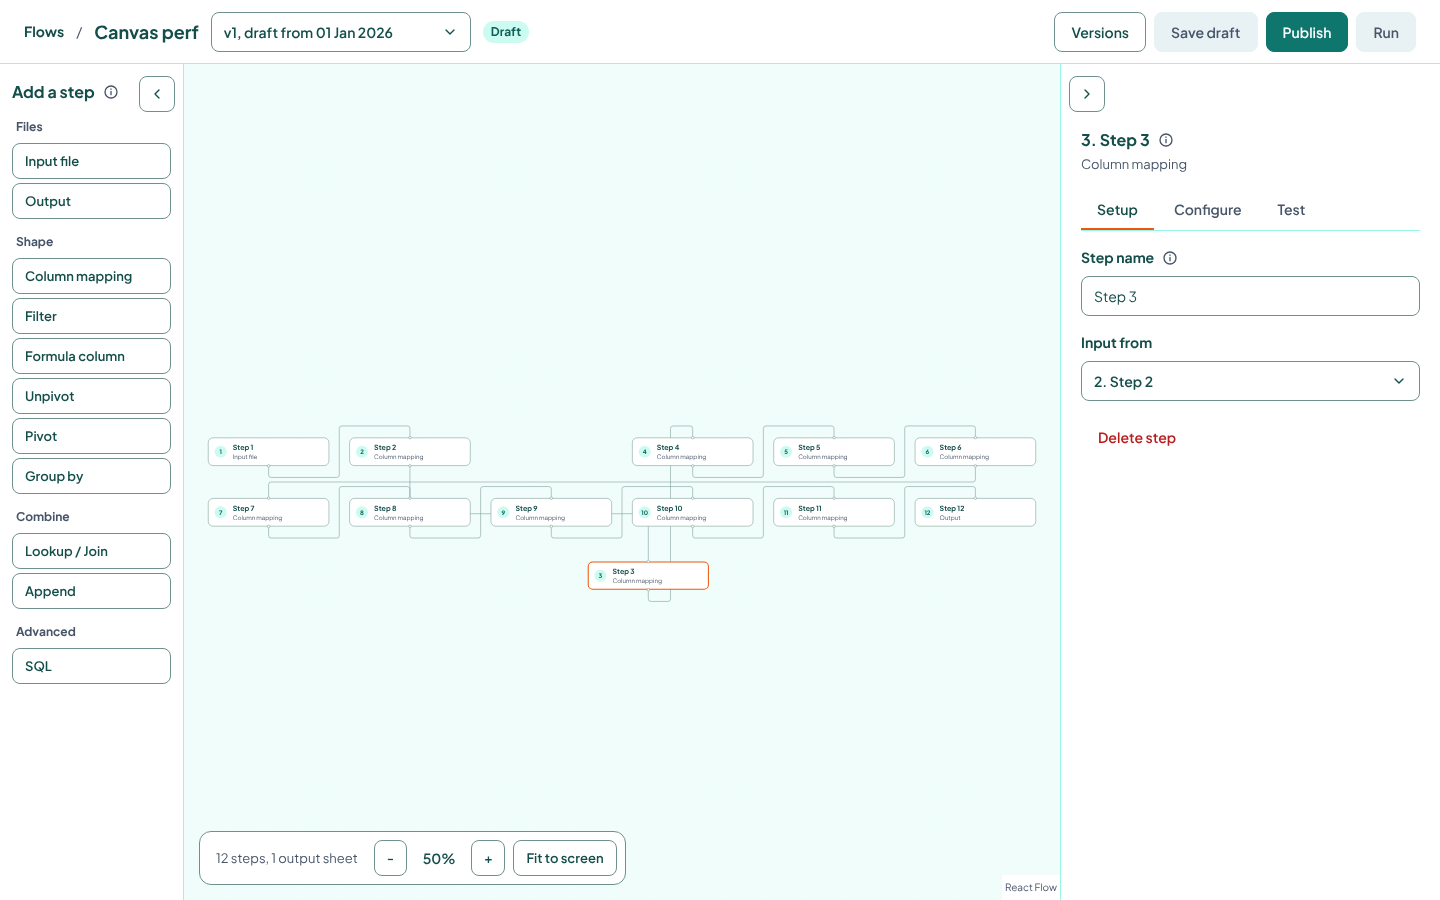
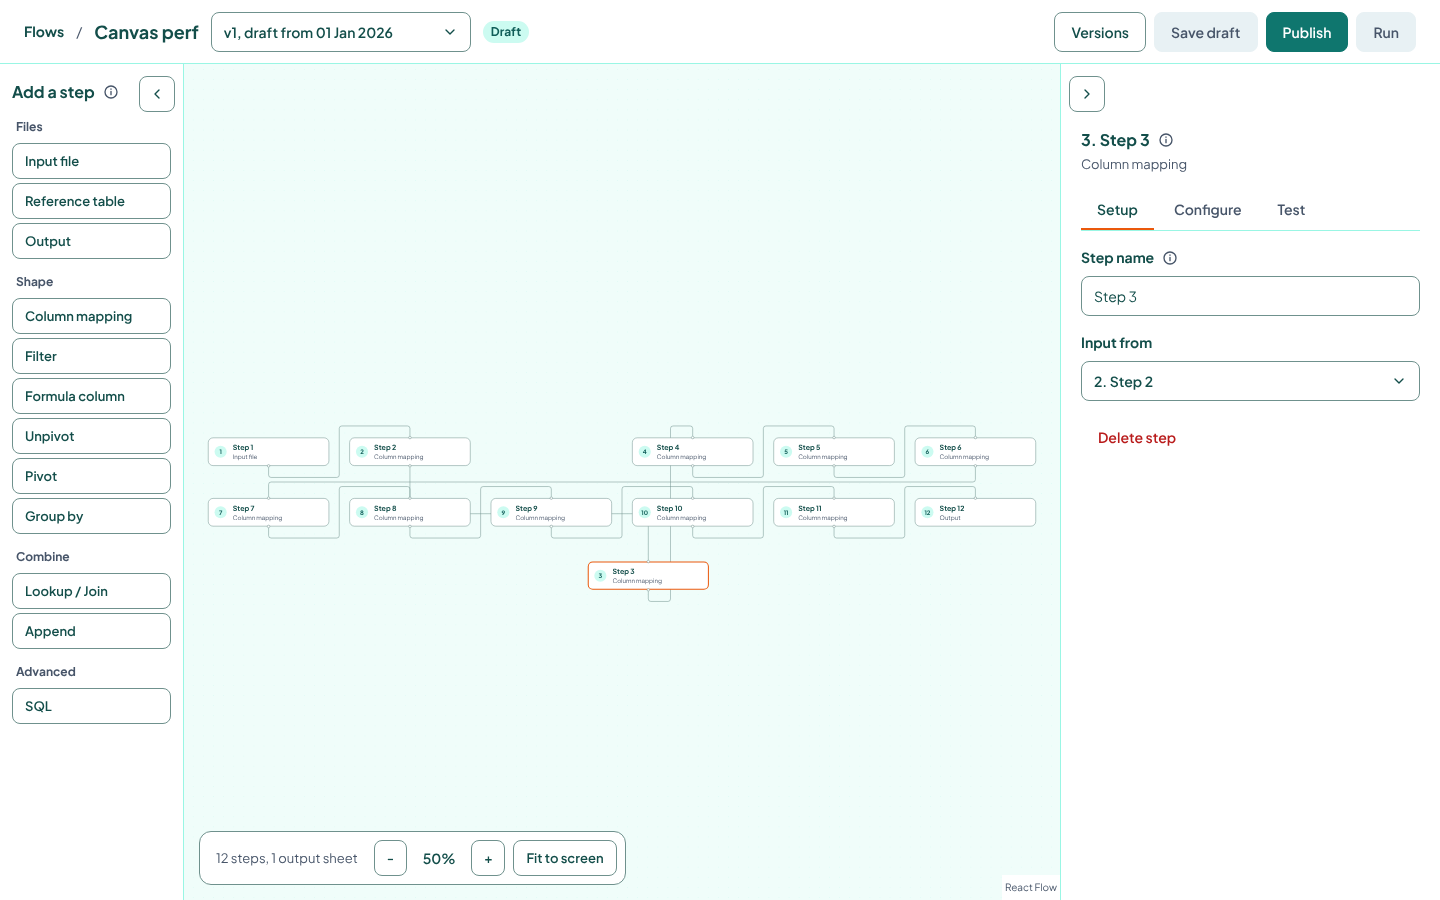
T6.20 Sweep: audit fixes for the new screens, D92, canvas measurements refreshed
Claude-Session: https://claude.ai/code/session_01Q85bFdSsbH4Xtqx7Ypf4Yh

diff --git a/src/ui/builder/analyze/analysis-panel.tsx b/src/ui/builder/analyze/analysis-panel.tsx
@@ -30,6 +30,14 @@ function cellText(v: unknown): string {
   return v instanceof Date ? v.toISOString().slice(0, 10) : String(v);
 }
 
+/** A column of numbers is right-aligned: every filled cell of the rows that are read is a number (or a text of digits). */
+function numericColumn(grid: Grid, result: FileAnalysis, c: number): boolean {
+  const region = result.analysis.region;
+  if (!region) return false;
+  const cells = grid.rows.slice(region.headerRow, Math.min(PREVIEW_ROWS, region.lastRow)).map((r) => r[c]).filter((v) => v !== null && v !== undefined && !(typeof v === 'string' && v.trim() === ''));
+  return cells.length > 0 && cells.every((v) => typeof v === 'number' || (typeof v === 'string' && /^-?[\d.,]+$/.test(v.trim())));
+}
+
 function previewRows(grid: Grid, result: FileAnalysis): PreviewRow[] {
   const region = result.analysis.region;
   return grid.rows.slice(0, PREVIEW_ROWS).map((row, i) => ({
@@ -103,6 +111,7 @@ export function AnalysisPanel({ file, settings, onApply }: AnalysisPanelProps) {
     setState({ status: 'idle' });
   };
 
+  const grid = state.status === 'done' ? state.result.grid : undefined;
   const columns: Column<PreviewRow>[] = [
     { key: 'n', header: t('builder.analyze.rowColumn'), align: 'right', userContent: false, render: (r) => (
       <span className={r.read ? undefined : styles.dim}>
@@ -114,35 +123,34 @@ export function AnalysisPanel({ file, settings, onApply }: AnalysisPanelProps) {
       key: `c${c}`,
       header: columnLetters(c + 1),
       userContent: true,
+      align: state.status === 'done' && grid && numericColumn(grid, state.result, c) ? ('right' as const) : ('left' as const),
       render: (r) => <span className={`${r.read ? '' : styles.dim} ${r.header ? styles.header : ''}`}>{r.cells[c]}</span>,
     })),
   ];
 
   return (
     <div className={styles.panel}>
-      <div className={styles.bar}>
-        <Button compact data-analyze="run" disabled={!file || state.status === 'reading'} onClick={() => void run()}>
+      <div className={styles.panel}>
+        <span className={styles.titleRow}>
+          <span className={styles.sectionTitle}>{t('builder.analyze.title')}</span>
+          <InfoTip label={t('builder.analyze.title')}>{t('builder.analyze.note')}</InfoTip>
+        </span>
+        <Button block data-analyze="run" disabled={!file || state.status === 'reading'} onClick={() => void run()}>
           {t('builder.analyze.button')}
         </Button>
-        <InfoTip label={t('builder.analyze.button')}>{t('builder.analyze.note')}</InfoTip>
       </div>
       {!file ? <p className={styles.note}>{t('builder.analyze.noFile')}</p> : null}
       {state.status === 'reading' ? (
         <div className={styles.panel}>
           <ProgressBar value={state.done} max={state.total} label={t('builder.analyze.reading')} />
-          <div className={styles.bar}>
-            <span className={styles.note} role="status">{t('builder.analyze.reading')}</span>
-            <Button compact onClick={cancel}>{t('builder.analyze.cancel')}</Button>
-          </div>
+          <span className={styles.note} role="status">{t('builder.analyze.reading')}</span>
+          <Button block onClick={cancel}>{t('builder.analyze.cancel')}</Button>
         </div>
       ) : null}
-      {state.status === 'failed' ? <ErrorState what={t('builder.analyze.failed')} next={state.message} actions={<Button compact onClick={() => setState({ status: 'idle' })}>{t('builder.analyze.close')}</Button>} /> : null}
+      {state.status === 'failed' ? <ErrorState what={t('builder.analyze.failed')} next={state.message} /> : null}
       {state.status === 'done' && !state.result.analysis.found ? (
         <div className={styles.result}>
           <p className={styles.note} role="status">{t('builder.analyze.noTable')}</p>
-          <div className={styles.actions}>
-            <Button compact onClick={() => setState({ status: 'idle' })}>{t('builder.analyze.close')}</Button>
-          </div>
         </div>
       ) : null}
       {state.status === 'done' && state.result.analysis.found ? (

diff --git a/e2e/analyze-file.spec.ts b/e2e/analyze-file.spec.ts
@@ -124,7 +124,8 @@ test('a file with no table says so and offers nothing to apply', async ({ page }
   await analyze(page).click();
   await expect(settings(page).getByText('No table found. Set the header row by hand.')).toBeVisible();
   await expect(settings(page).getByRole('button', { name: 'Apply to the step' })).toHaveCount(0);
-  await settings(page).getByRole('button', { name: 'Close' }).click();
+  // A new test file starts clean: the message of the old one is gone.
+  await settings(page).locator('input[type=file]').setInputFiles(upload(layout('title-and-footer (xlsx)')));
   await expect(settings(page).getByText('No table found.')).toHaveCount(0);
 });
 
@@ -142,7 +143,8 @@ test('a file that cannot be read says what failed and what to do', async ({ page
   const alert = settings(page).getByRole('alert');
   await expect(alert).toContainText('The file could not be analyzed.');
   await expect(alert).toContainText('.xlsx or .csv');
-  await alert.getByRole('button', { name: 'Close' }).click();
+  // Another test file clears it.
+  await settings(page).locator('input[type=file]').setInputFiles(upload(layout('title-and-footer (xlsx)')));
   await expect(settings(page).getByRole('alert')).toHaveCount(0);
 });
 

diff --git a/src/ui/builder/step-preview.tsx b/src/ui/builder/step-preview.tsx
@@ -131,7 +131,7 @@ export function StepPreview({ definition, step, files, onFile, refTables, parame
         </div>
       ) : null}
       {step.type === 'input_file' && onApplySettings ? (
-        <AnalysisPanel file={typeof step.settings.key === 'string' ? files[step.settings.key] : undefined} settings={step.settings} onApply={onApplySettings} />
+        <AnalysisPanel key={(() => { const f = typeof step.settings.key === 'string' ? files[step.settings.key] : undefined; return f ? `${f.name}:${f.size}:${f.lastModified}` : 'none'; })()} file={typeof step.settings.key === 'string' ? files[step.settings.key] : undefined} settings={step.settings} onApply={onApplySettings} />
       ) : null}
       {needed.length > 0 ? (
         <div className={styles.block}>

diff --git a/src/ui/builder/parameter-control/parameter-control.tsx b/src/ui/builder/parameter-control/parameter-control.tsx
@@ -72,11 +72,11 @@ export function ParameterControl({ field, setting, parameters, value, readOnly, 
         <span className={`${styles.chip} ${gone ? styles.chipError : ''}`}>
           <Icon name="link" />
           {gone ? (
-            <span data-user-content>{t('builder.param.gone', { key: view.key })}</span>
+            <span data-user-content title={t('builder.param.gone', { key: view.key })}>{t('builder.param.gone', { key: view.key })}</span>
           ) : (
             <>
               <span>{t('builder.param.chip')}</span>
-              <span data-user-content>{view.label}</span>
+              <span data-user-content title={view.label}>{view.label}</span>
             </>
           )}
         </span>

diff --git a/src/ui/i18n/messages/vi.ts b/src/ui/i18n/messages/vi.ts
@@ -228,6 +228,7 @@ export const vi: Record<MessageKey, string> = {
   'builder.analyze.match.starts_with': 'bắt đầu bằng',
   'builder.analyze.match.equals': 'đúng bằng',
   'builder.analyze.button': 'Phân tích tệp',
+  'builder.analyze.title': 'Phân tích một tệp mẫu',
   'builder.analyze.noFile': 'Hãy chọn một tệp thử trước.',
   'builder.analyze.reading': 'Đang đọc tệp',
   'builder.analyze.cancel': 'Hủy',

diff --git a/src/ui/i18n/messages/en.ts b/src/ui/i18n/messages/en.ts
@@ -235,6 +235,7 @@ export const en = {
   'builder.analyze.match.starts_with': 'starts with',
   'builder.analyze.match.equals': 'is',
   'builder.analyze.button': 'Analyze file',
+  'builder.analyze.title': 'Analyze a sample file',
   'builder.analyze.noFile': 'Choose a test file first.',
   'builder.analyze.reading': 'Reading the file',
   'builder.analyze.cancel': 'Cancel',

diff --git a/src/ui/builder/analyze/analysis-panel.module.css b/src/ui/builder/analyze/analysis-panel.module.css
@@ -118,3 +118,9 @@
   display: flex;
   gap: 8px;
 }
+
+.titleRow {
+  display: inline-flex;
+  align-items: center;
+  gap: 8px;
+}

diff --git a/PROGRESS.md b/PROGRESS.md
@@ -239,7 +239,7 @@ Input files that hold a table inside a larger sheet (SPEC 13.2)
 - [x] T6.19 The run says what is wrong: a file that lacks a required column, a stop marker that is never found (the region reaches the end of the sheet, said as a warning on the Run screen and the Test tab: "The stop text was not found; all rows to the end were read"), a header row past the end. Each message says what failed and what to do (SPEC 11.3, `en` and `vi`). e2e for each on the Run screen and in the Test tab.
 
 Quality pass
-- [ ] T6.20 Unit and integration sweep: `npm run check`, `test:db`, `test:functions`, `test:store` and `test:acceptance` pass on the whole Phase 6 code, the acceptance flow is unchanged, `docs/CANVAS_PERF.md` is current, and `ui-audit/audit.spec.ts` finds no row of controls with different heights and no column with different widths on the new screens. Fix what it finds.
+- [x] T6.20 Unit and integration sweep: `npm run check`, `test:db`, `test:functions`, `test:store` and `test:acceptance` pass on the whole Phase 6 code, the acceptance flow is unchanged, `docs/CANVAS_PERF.md` is current, and `ui-audit/audit.spec.ts` finds no row of controls with different heights and no column with different widths on the new screens. Fix what it finds.
 - [ ] T6.21 `docs/DEPLOY.md`: a section "Upgrade from Phase 5" (back up; `npx supabase db push` for migration 18 named in the file; no new function; a check list: a flow with a Reference table step is readable by a user who runs it, the date check warning, the analysis of a sample file, a drag on the canvas), under Limits that a sample file is never stored and that the analysis is a proposal; `scripts/deploy-doc.test.ts` updated; `README.md` lists the new features.
 - [ ] T6.22 UI review of the new and changed screens in both themes: the builder while a card is dragged (screenshots at the start, middle and end), the Input step (Configure with the region settings, Test with the analysis in each state), a field that uses a parameter in each form, the Reference table step in each state, the publish dialog with the date check, the Run screen with its group and errors; against the DESIGN checklist; `docs/UI_AUDIT_P6.md` with numbered findings (screen, item, severity, fix); fix every finding that is a few lines in this task, add one task for each other finding below (T6.22a, T6.22b, ...), at most 6, and list the rest as later. Run the full `npm run test:ui-rules`.
 - [ ] T6.23 Final run: `npm ci`, then `npm run gates` (seven gates) and `npm run test:acceptance:pages`; set `STATUS: COMPLETE` only if both pass. Consult the advisor before the last tick.
@@ -290,6 +290,12 @@ None. The Pages file size blocker of T3.9 is solved by D71.
 ## Log
 
 Newest first.
+
+### 2026-11-20 T6.20 Unit and integration sweep (turn 28)
+Ran on the whole Phase 6 code: `npm run check` PASS (106 files, 1444 tests, exit 0); `npm run test:db` PASS (exit 0, migrations 1 to 18 applied from zero on a local Supabase, 18 files, 511 tests); `npm run test:functions` PASS (exit 0, 14 tests); `npm run test:store` PASS (exit 0, 35 tests); `npm run test:acceptance` PASS (exit 0, 22 passed: both datasets with the same flow file, harness, privacy and the 14 layout tests); `git diff main -- flows/monthly-timesheet.flow.json` is empty; `git status --porcelain testcase` is empty. `docs/CANVAS_PERF.md` regenerated by `npm run perf:canvas` (exit 0): p95 frame 17 ms for 12, 70 and 60 steps, 2 renders of BuilderScreen, SettingsPanel and StepList per drag, every card visible.
+`ui-audit` (the build of the UI rules, both themes, 90 routes each, 180 passed): no row of controls with different heights on any new screen. Fixed what it found on them: numbers of the "Analyze file" preview were not right-aligned, three chip labels of the parameter control truncated without a `title`, and the `Analyze file` and `Cancel` buttons were narrower than the fields above them (the error and "No table found" states lose their `Close`, and a new test file clears them). What it still lists on the new screens is the pattern of D83 and D86 and is written down in D92. The two audited bundles were built from the code at that point; after the last fix the UI rules were run for the analyze file and parameter control routes (330 passed, exit 0, three projects).
+Gates run: all of the above, read before this commit. The full `npm run test:e2e`, the full `npm run test:ui-rules`, `npm run test:acceptance:pages` and a full `npm run gates` after `npm ci` were not run this turn: T6.22 and T6.23 do that.
+Next: T6.21.
 
 ### 2026-11-20 T6.19 The run says what is wrong or doubtful with an Input file (turn 27)
 Changed: src/engine/types.ts (`EngineWarning` and `warning()`), src/engine/input/load.ts (a header row past the end of the sheet is the coded error `engine.inputNoHeader`, with the row, the file and the step, for xlsx and csv; a stop text that is never found adds the warning `engine.inputStopNotFound` to `LoadStats.warnings` in both readers and the load still reads to the end; the missing-column error is from T6.16a), src/engine/run.ts (`RunResult.warnings`), src/ui/i18n/error-text.ts (`warningText`), `PreviewData.warnings` and `RunOutcome.warnings` (in the language of the screen), a quiet warning above the rows in the Test tab and above the downloads in the result of the Run screen, two catalog texts in `en` and `vi`. Tests: unit tests in layouts.test.ts (header row 500 for xlsx and csv; a stop text that is never found warns for xlsx and csv and reads more rows; no warning when the marker is found, for the other ways to stop and without a stop rule), e2e/input-problems.spec.ts (8 tests: a missing required column on the Run screen and in the Test tab, and in Vietnamese; a stop text never found on the Run screen and in the Test tab, and none when it is found; a header row past the end on the Run screen and in the Test tab), two UI-rules routes (the warning in the Test tab and in the Run result).

diff --git a/docs/DECISIONS.md b/docs/DECISIONS.md
@@ -971,3 +971,19 @@ DuckDB `read_csv` stays the csv reader (D10), with three changes for files that 
 - **The region, the stop rule and the rows to ignore are SQL** over those rows: the first and last column are positions; a marker is looked for in the named column or in every column of the row; "N empty rows in a row" is evaluated over the list of all line numbers, where a line that is not in the table is empty; a row to ignore is not empty.
 
 The xlsx reader gets the same rules in its row loop. It stops reading the file at the stop rule (`LoadStats.rowsRead` shows how many rows it took), and it counts a gap in the row numbers as empty rows, because the sheet XML does not hold empty rows.
+
+## D92 What the Phase 6 audit still lists, and what it fixed (T6.20)
+
+`ui-audit` was run on every route of the UI rules in both themes at 1440 px. On the new screens it found no row of controls with different heights. It found, and T6.20 fixed:
+
+- **Numbers in the preview of "Analyze file"** were left-aligned. A column of the preview whose filled cells in the rows that are read are all numbers is right-aligned (`numericColumn`).
+- **Truncated chip labels** of the parameter control ("Parameter: {label}", "Parameter {key} no longer exists") had no `title`; they have one now.
+- **The `Analyze file` button** was a compact button next to its info button, narrower than the fields above it. It is now a full-width button under a title row with the info button, like the other blocks of the Test tab; the reading state's `Cancel` is full width too, and the error and "No table found" states have no `Close` button (they go away when another test file is chosen: the panel is keyed by the file). "Close" stays in the result, next to "Apply to the step".
+
+What it still lists on the new screens is the pattern of the earlier phases (D83, D86), and is intentional:
+
+- A compact action button under full-width fields: "Load columns", "Add a row to ignore", "Preview first rows", "Change file" and "Choose file" on the Test tab; "Delete step" at the foot of the settings panel, now under the Reference table form too.
+- "Use a fixed value" (compact) beside the chip of a bound field, in the 40 px row of that chip.
+- The Run screen's date row (the date picker next to Run or a download), and the 1,086 px empty-named control, which is the hidden file input of the file row.
+- The panel toggles in a rail (36 px) above full-width controls, and "Collapse sidebar" above "Create flow".
+- "Analyze file" is as wide as the date picker above it, but the "Choose file" and "Change file" buttons of the file row are 97 px, as before Phase 6.

diff --git a/docs/CANVAS_PERF.md b/docs/CANVAS_PERF.md
@@ -6,8 +6,8 @@ One card is dragged with the mouse in 60 moves in headless Chromium at 1440 x 90
 
 | Flow | Steps | Frames | p95 frame (ms) | Slowest frame (ms) | BuilderScreen | SettingsPanel | StepList | StepCard (all cards) | Every card visible (before / during / after) |
 | --- | --- | --- | --- | --- | --- | --- | --- | --- | --- |
-| 12 steps (generated) | 12 | 65 | 17 | 17 | 2 | 2 | 2 | 85 | yes |
+| 12 steps (generated) | 12 | 67 | 17 | 17 | 2 | 2 | 2 | 85 | yes |
 | 70 steps (monthly-timesheet.flow.json) | 70 | 67 | 17 | 17 | 2 | 2 | 2 | 201 | yes |
-| 60 steps (generated) | 60 | 67 | 17 | 17 | 2 | 2 | 2 | 181 | yes |
+| 60 steps (generated) | 60 | 68 | 17 | 17 | 2 | 2 | 2 | 181 | yes |
 
 Screenshots at the middle of each drag are in `docs/canvas-perf/`.
